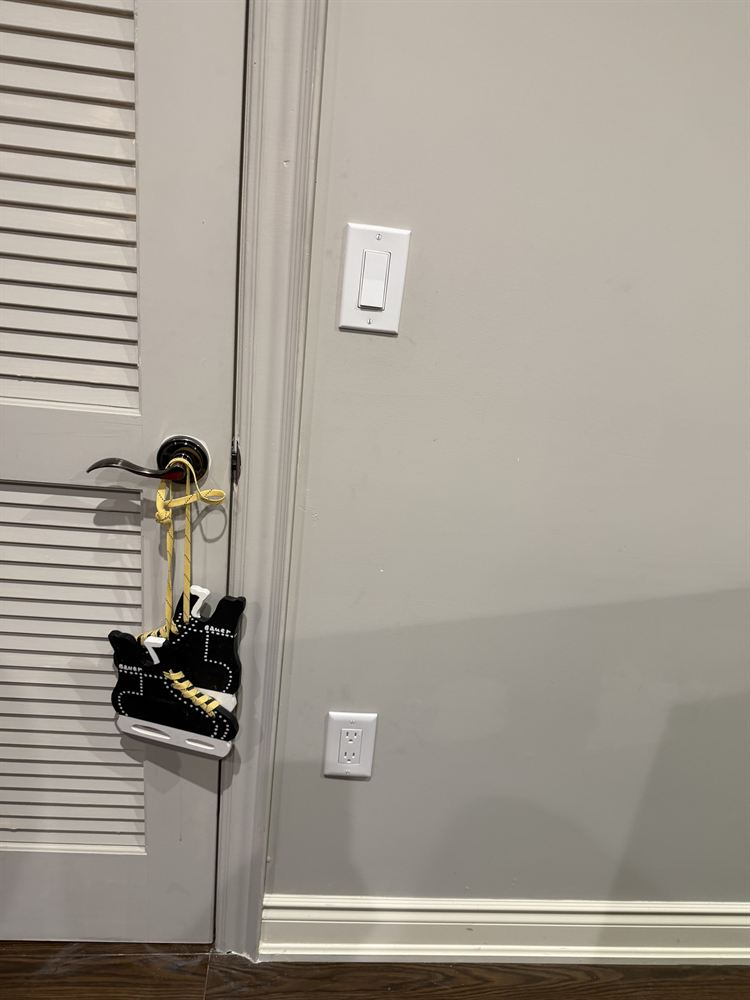
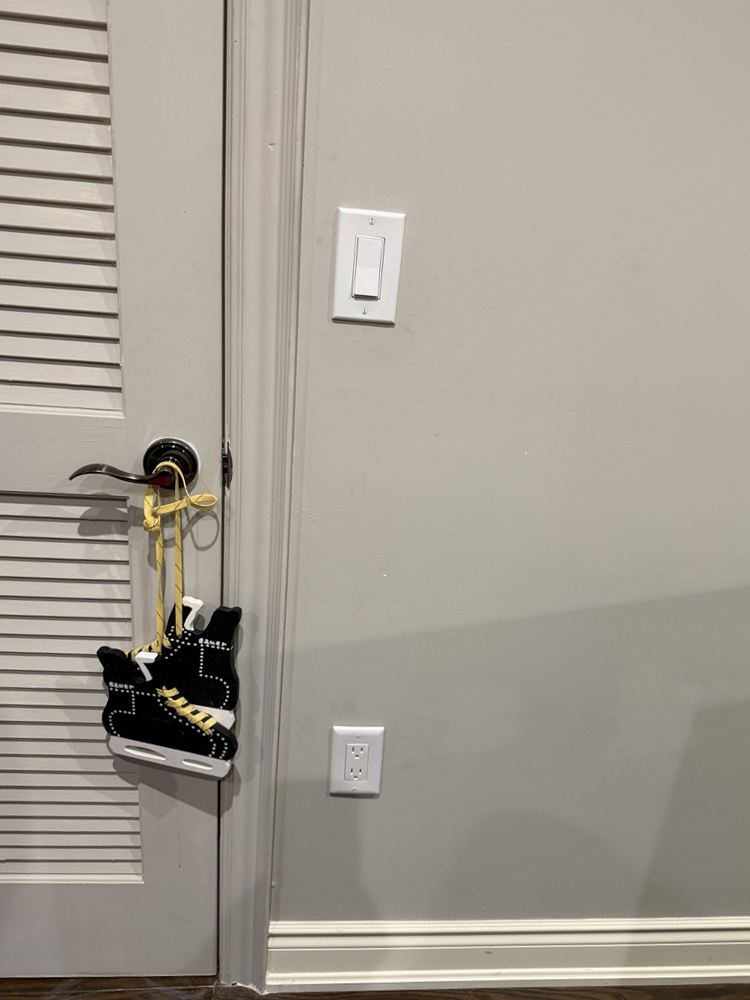
Real after photo with outlet highlight, straightened outlet photos, breaker card hides when off, hot tub photo

diff --git a/assets/js/site.js b/assets/js/site.js
@@ -64,7 +64,7 @@ const SERVICES = [
     text: 'Hot tub and pool equipment hookups with the disconnect in the right place, weatherproof outlets, landscape and security lighting, and power to the garage or shed.',
     list: ['Hot tub disconnects placed where the code requires', 'Buried or surface runs done to the right depth and rating', 'Outdoor GFCI protection throughout'],
     note: 'a hot tub needs its own GFCI-protected circuit and a disconnect within sight of the tub, kept at least 1.5 m from the water. Plan the spot before the tub arrives.',
-    img: IMG('1660330589827-da8ab7dd3c02'), alt: 'An electrician working on an outdoor electrical meter and panel' },
+    img: IMG('1772040942277-b194d9d0b648'), alt: 'A hot tub on a wooden deck surrounded by a lush garden' },
   { id: 'outlets', label: 'Outlets, switches & GFCIs', title: 'Outlets, switches & GFCIs',
     text: 'New outlets where you actually need them, USB-C and smart switches, GFCI protection in kitchens, baths and outdoors, and two-prong outlets brought up to date.',
     list: ['Added circuits where one is doing too much', 'GFCI and AFCI protection where the code calls for it', 'Cover plates straight, flush and level'],
@@ -132,13 +132,20 @@ const label = id => (SERVICES.find(s => s.id === id) || { label: 'Something else
 function panel() {
   const pnl = $('#panel'), card = $('#circuit'), layout = $('.svc-layout'), live = $('#panelLive');
   const announce = id => { live.textContent = `${label(id)} ${selected.has(id) ? 'added to' : 'removed from'} your quote.`; };
+  const inline = () => narrow();
+  if (inline()) card.hidden = true;
   $$('.brk').forEach(b => b.addEventListener('click', () => {
     const id = b.dataset.id;
     toggle(id); announce(id);
+    if (inline() && !selected.has(id)) { if (current === id) card.hidden = true; return; }
+    card.hidden = false;
     show(id, b);
     if (selected.has(id) && !reduce) { b.classList.remove('zap'); void b.offsetWidth; b.classList.add('zap'); }
   }));
-  $('#circuitToggle').addEventListener('click', e => { const id = e.currentTarget.dataset.id; toggle(id); announce(id); });
+  $('#circuitToggle').addEventListener('click', e => {
+    const id = e.currentTarget.dataset.id; toggle(id); announce(id);
+    if (inline() && !selected.has(id)) { card.hidden = true; const b = $(`.brk[data-id="${id}"]`); if (b) b.focus({ preventScroll: true }); }
+  });
   $('#panelGo').addEventListener('click', e => { e.preventDefault(); goForm(); });
   // hero panel directory: pick a circuit, land on the panel with it switched on
   $$('[data-pick]').forEach(a => a.addEventListener('click', e => {
@@ -148,7 +155,10 @@ function panel() {
     $('#services').scrollIntoView({ behavior: reduce ? 'auto' : 'smooth' });
     show(id, $(`.brk[data-id="${id}"]`), true);
   }));
-  matchMedia('(max-width:1080px)').addEventListener('change', () => { if (!narrow() && card.parentNode !== layout) layout.appendChild(card); });
+  matchMedia('(max-width:1080px)').addEventListener('change', () => {
+    if (!narrow()) { card.hidden = false; if (card.parentNode !== layout) layout.appendChild(card); }
+    else if (!selected.has(current)) card.hidden = true;
+  });
 
   // on phones and tablets the details open right under the tapped breaker
   function place(brk, quiet) {
@@ -225,8 +235,8 @@ function beforeAfter() {
       let t0 = null;
       const step = ts => {
         if (t0 === null) t0 = ts;
-        const k = Math.min((ts - t0) / 1600, 1);
-        const v = base + Math.sin(k * Math.PI * 2) * 14 * (1 - k);
+        const k = Math.min((ts - t0) / 2200, 1);
+        const v = base + (92 - base) * Math.pow(1 - k, 3);
         set(v); r.value = v;
         if (k < 1) requestAnimationFrame(step);
       };

diff --git a/index.html b/index.html
@@ -25,7 +25,7 @@
 <link rel="preconnect" href="https://fonts.gstatic.com" crossorigin>
 <link rel="preconnect" href="https://images.unsplash.com">
 <link rel="stylesheet" href="https://fonts.googleapis.com/css2?family=Barlow+Condensed:wght@600;700;800&family=IBM+Plex+Mono:wght@400;500&family=IBM+Plex+Sans:wght@400;500;600&display=swap">
-<link rel="stylesheet" href="assets/css/site.css?v=8">
+<link rel="stylesheet" href="assets/css/site.css?v=9">
 <script type="application/ld+json">
 {
   "@context": "https://schema.org",
@@ -229,21 +229,20 @@
     <div class="sec-head">
       <p class="eyebrow"><span>02</span> Our work</p>
       <h2 id="work-h">Before. After. Drag to see the difference.</h2>
-      <p class="sec-lede">Real photos from Heath Electric jobs. This before shot is in; its after photo is on the way.</p>
+      <p class="sec-lede">A real Heath Electric job. Drag the handle to see what changed.</p>
     </div>
 
-    <figure class="ba" id="ba" style="--pos:70%">
-      <div class="awaiting-banner"><svg aria-hidden="true"><use href="#bolt"></use></svg>Before photo from a Heath Electric job. The after photo is on its way.</div>
+    <figure class="ba" id="ba" style="--pos:24%">
       <img class="ba-img ba-before" src="assets/img/ba-before.jpg" alt="Before: a hallway wall with a light switch beside a closet door" width="1050" height="1400" loading="lazy" decoding="async">
-      <div class="ba-img ba-after ba-await" role="img" aria-label="After photo coming soon"><svg class="f-ico" viewBox="0 0 48 48" aria-hidden="true"><rect x="5" y="13" width="38" height="27" rx="4"/><circle cx="24" cy="26" r="8"/><path d="M17 13l3-5h8l3 5"/></svg><p class="mono gold">Awaiting photo</p><p class="f-label">After</p></div>
+      <div class="ba-img ba-after"><img src="assets/img/ba-after.jpg" alt="After: the same wall with a new outlet installed below the switch" width="1050" height="1400" loading="lazy" decoding="async"><span class="ba-spot" style="left:48.5%;top:73.4%" aria-hidden="true"><span class="ba-spot-tag">New outlet</span></span></div>
       <span class="ba-tag ba-tag-b">Before</span>
       <span class="ba-tag ba-tag-a">After</span>
       <div class="ba-handle" aria-hidden="true"><span><svg><use href="#bolt"></use></svg></span></div>
       <label class="sr" for="baRange">Before and after comparison: move to reveal more of the after photo</label>
-      <input class="ba-range" id="baRange" type="range" min="0" max="100" value="70">
+      <input class="ba-range" id="baRange" type="range" min="0" max="100" value="24">
       <figcaption class="ba-cap">
         <span class="mono gold">The job</span>
-        <span>A Heath Electric job before the work started. Drag across once the after photo is in to see the finished result.</span>
+        <span>A new outlet added below the existing switch, beside a closet door. Drag the handle to compare.</span>
       </figcaption>
     </figure>
 
@@ -427,6 +426,6 @@
   </div>
 </footer>
 
-<script src="assets/js/site.js?v=7" defer></script>
+<script src="assets/js/site.js?v=8" defer></script>
 </body>
 </html>

diff --git a/assets/css/site.css b/assets/css/site.css
@@ -535,3 +535,14 @@ a.btn-await::before{display:none}
 .ba-await .f-ico{width:40px;height:40px}
 .ba-await{padding-right:5%}
 .ba-await .mono{font-size:10px;letter-spacing:.12em}
+
+/* revision 5: real after photo with the outlet ringed; breaker card hides when switched off */
+.ba-after img{display:block;width:100%;height:100%;object-fit:cover}
+.ba-spot{position:absolute;width:15%;aspect-ratio:1;transform:translate(-50%,-50%);border:3px solid var(--gold);border-radius:50%;box-shadow:0 0 0 5px rgba(254,209,0,.22),0 0 26px rgba(254,209,0,.55);animation:spot 1.9s ease-in-out infinite;pointer-events:none}
+.ba-spot-tag{position:absolute;left:calc(100% + 10px);top:50%;transform:translateY(-50%);white-space:nowrap;padding:7px 12px;border-radius:999px;background:var(--gold);color:#0A0B0A;font:700 15px/1 var(--display);letter-spacing:.1em;text-transform:uppercase;box-shadow:0 6px 18px rgba(0,0,0,.35)}
+@keyframes spot{50%{box-shadow:0 0 0 14px rgba(254,209,0,0),0 0 36px rgba(254,209,0,.75)}}
+@media (prefers-reduced-motion:reduce){.ba-spot{animation:none}}
+@media (max-width:680px){.ba-spot{width:17%;border-width:2px}.ba-spot-tag{font-size:12px;padding:6px 9px;left:calc(100% + 6px)}}
+.circuit[hidden]{display:none!important}
+.ba-tag{top:16px;bottom:auto}
+@media (max-width:680px){.ba-tag{top:12px;bottom:auto}}
